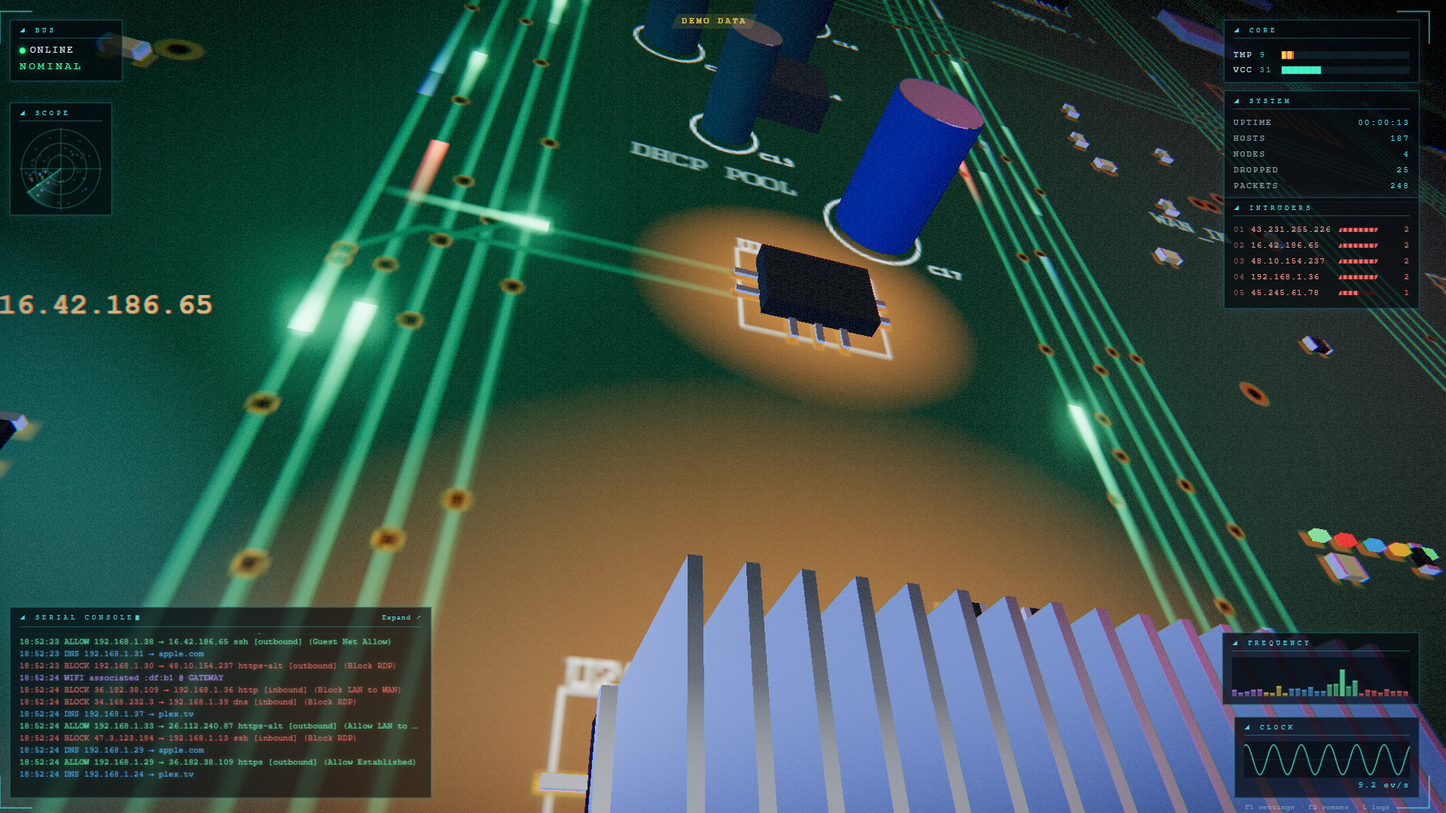
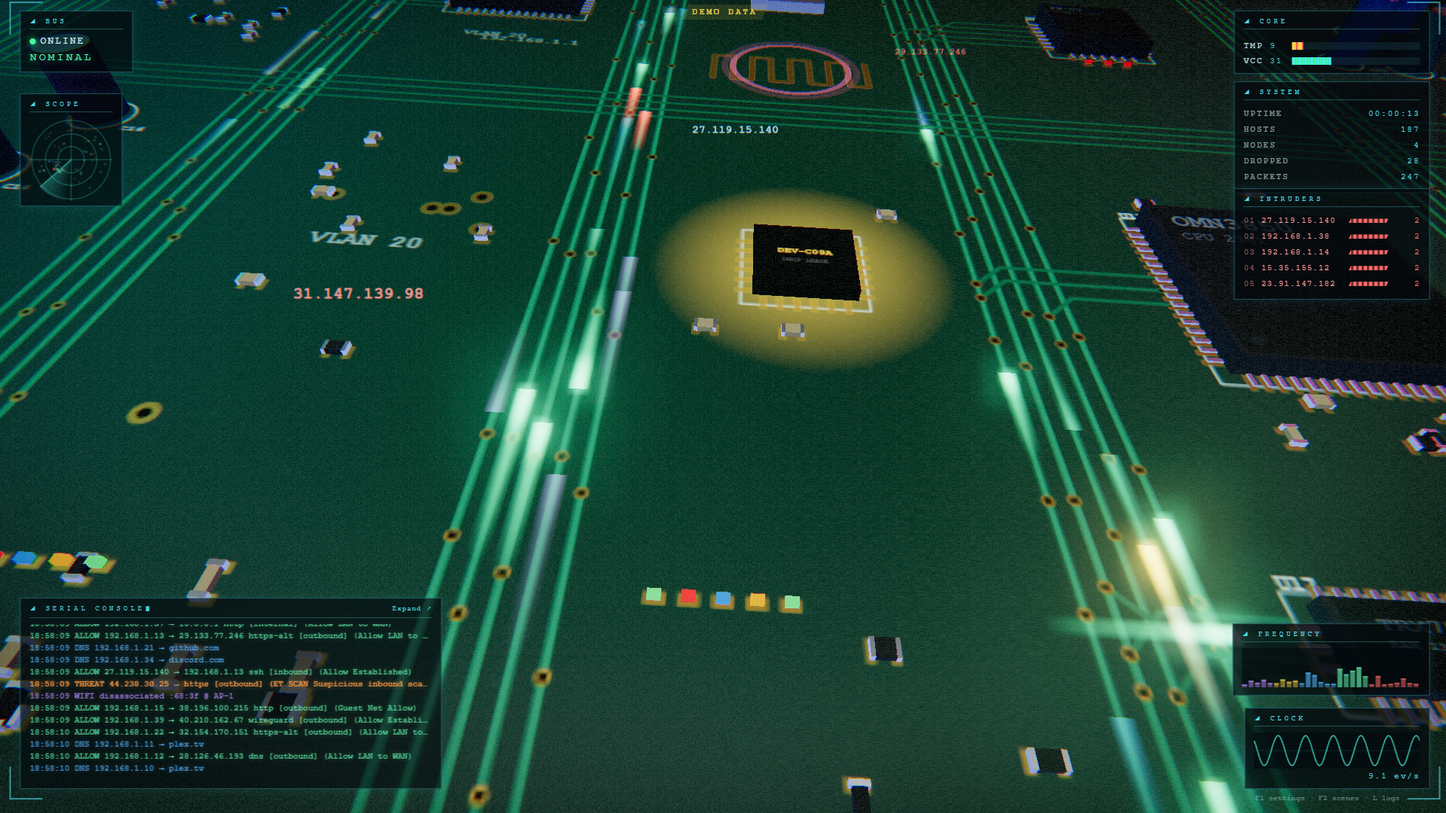
Mainframe: pull the camera back so you can see what's going on
Higher over the board (and a little higher inside a chip), looking further
ahead, with lighter fog; packets, worms, shards and floating addresses are
scaled up to read from the new height.

diff --git a/web/src/themes/mainframe/traffic.ts b/web/src/themes/mainframe/traffic.ts
@@ -138,12 +138,12 @@ export class Traffic {
       const rt = routes[Math.floor(Math.random() * routes.length)];
       if (rt) {
         const start = new Vector3(rt.pts[0].x, 0.12, outbound ? camZ + 30 : camZ - 260);
-        this.launch(makeRoute([start, ...rt.pts], rt.chip), color, 55 + Math.random() * 25, 6 + Math.random() * 4, undefined, 1.05);
+        this.launch(makeRoute([start, ...rt.pts], rt.chip), color, 60 + Math.random() * 30, 9 + Math.random() * 5, undefined, 1.6);
         return;
       }
     }
     const z0 = outbound ? camZ + 30 : camZ - 300, z1 = outbound ? camZ - 300 : camZ + 40;
-    this.launch(makeRoute([new Vector3(x, 0.12, z0), new Vector3(x, 0.12, z1)]), color, 45 + Math.random() * 40, 6 + Math.random() * 6, undefined, 1.1);
+    this.launch(makeRoute([new Vector3(x, 0.12, z0), new Vector3(x, 0.12, z1)]), color, 50 + Math.random() * 45, 9 + Math.random() * 8, undefined, 1.7);
   }
 
   /** The board's own chatter between events: dim clock and bus pulses, so it's never still. */
@@ -160,7 +160,7 @@ export class Traffic {
     const rt = chip.routes[Math.floor(Math.random() * chip.routes.length)];
     const start = new Vector3(rt.pts[0].x, 0.12, camZ + 20);
     const end = rt.pts[rt.pts.length - 1];
-    this.launch(makeRoute([start, ...rt.pts], chip), COL.block, 70 + Math.random() * 20, 6, () => {
+    this.launch(makeRoute([start, ...rt.pts], chip), COL.block, 75 + Math.random() * 20, 9, () => {
       this.burst(end, COL.block, 16);
       this.glow(chip, COL.block, 1, 1.4);
       this.onEvent('shatter', end.x);
@@ -196,7 +196,7 @@ export class Traffic {
           w.iced = true;
           const rev = makeRoute([...w.route.pts].reverse().map((p) => p.clone()), null);
           for (let i = 0; i < 3; i++) {
-            const p = this.launch(rev, COL.ice, 30 + i * 6, 3.5, undefined, 0.8);
+            const p = this.launch(rev, COL.ice, 30 + i * 6, 5, undefined, 1.3);
             if (p) { p.d = -i * 3; w.ice.push(p); }
           }
           this.onEvent('ice', w.route.pts[w.route.pts.length - 1].x);
@@ -213,7 +213,7 @@ export class Traffic {
       }
       const alive = w.dying < 0 ? SEG : Math.max(0, SEG - Math.floor(w.dying / 0.09));
       for (let s = 0; s < SEG; s++) {
-        const d = w.head - s * 1.25;
+        const d = w.head - s * 1.8;
         if (d < 0) break;
         this.pointAt(w.route, d, tmpV);
         if (s >= alive) {
@@ -223,7 +223,7 @@ export class Traffic {
         const sc = 1 - s / (SEG * 1.4);
         tmpV.x += this.jitter[s % this.jitter.length] * (w.dying >= 0 ? 3 : 1);
         tmpV.y = 0.45 + Math.sin(w.age * 9 - s * 0.8) * 0.18;
-        tmpM.compose(tmpV, tmpQ.identity(), tmpS.set(0.95 * sc, 0.7 * sc, 1.05 * sc));
+        tmpM.compose(tmpV, tmpQ.identity(), tmpS.set(1.5 * sc, 1.0 * sc, 1.6 * sc));
         this.wormMesh.setMatrixAt(n++, tmpM);
         if (n >= 120) break;
       }
@@ -256,7 +256,7 @@ export class Traffic {
       s.pos.addScaledVector(s.vel, dt);
       if (s.pos.y < 0.15) { s.pos.y = 0.15; s.vel.y *= -0.3; s.vel.x *= 0.7; s.vel.z *= 0.7; }
       const k = 1 - s.age / s.life;
-      tmpM.compose(s.pos, tmpQ.identity(), tmpS.set(0.9 * k + 0.2, 1, 0.9 * k + 0.2));
+      tmpM.compose(s.pos, tmpQ.identity(), tmpS.set(1.5 * k + 0.3, 1, 1.5 * k + 0.3));
       this.shardMesh.setMatrixAt(n, tmpM);
       this.shardMesh.setColorAt(n, this.col.copy(s.color).multiplyScalar(k * 2));
       n++;
@@ -473,8 +473,8 @@ export class Traffic {
     g.textBaseline = 'middle';
     g.fillText(text.slice(0, 22), 6, 34);
     f.tex.needsUpdate = true;
-    f.sprite.scale.set(10, 1.25, 1);
-    f.sprite.position.set(this.camX + (Math.random() - 0.5) * 70, 2.5 + Math.random() * 5, camZ - 45 - Math.random() * 80);
+    f.sprite.scale.set(15, 1.9, 1);
+    f.sprite.position.set(this.camX + (Math.random() - 0.5) * 70, 4 + Math.random() * 8, camZ - 55 - Math.random() * 90);
     f.age = 0; f.life = 5 + Math.random() * 3; f.vy = 0.6 + Math.random() * 0.8; f.busy = true; f.sprite.visible = true;
   }
 

diff --git a/web/src/themes/mainframe/flight.ts b/web/src/themes/mainframe/flight.ts
@@ -12,6 +12,8 @@ export class Flight {
   alt = 12;
   vx = 0;
   speed = 26;
+  /** Height above the low point: high over the board, lower inside a chip. */
+  lift = 28;
   private targetX = 0;
   private nextTurn = 2;
   private roll = 0;
@@ -35,14 +37,14 @@ export class Flight {
     // clearance over the parts coming up
     let h = 0;
     for (let dz = 6; dz <= 46; dz += 4) for (let dx = -10; dx <= 10; dx += 5) h = Math.max(h, board.heightAt(this.x + dx, this.z - dz));
-    const base = (o.low ?? 9) + 11 + Math.sin(this.t * 0.11) * 3.5 + Math.sin(this.t * 0.037 + 1) * 2;
+    const base = (o.low ?? 9) + this.lift + Math.sin(this.t * 0.11) * 3.5 + Math.sin(this.t * 0.037 + 1) * 2;
     const altTarget = Math.max(base, h + 7);
     this.alt += (altTarget - this.alt) * Math.min(1, dt * (altTarget > this.alt ? 2.6 : 0.7));
     this.roll += (-this.vx * 0.014 - this.roll) * Math.min(1, dt * 3);
     camera.position.set(this.x + (o.wanderX ?? 0) * 0.01, this.alt + (o.wanderY ?? 0) * 0.005, this.z);
     // steep enough to read as flying over the board, with the traces rushing up from below
     // looking well down at the board: it fills the frame, and the horizon stays out of sight
-    this.look.set(this.x + this.vx * 0.35, 0, this.z - (this.alt * 0.62 + 8));
+    this.look.set(this.x + this.vx * 0.35, 0, this.z - (this.alt * 0.7 + 10));
     camera.up.set(Math.sin(this.roll), Math.cos(this.roll), 0);
     camera.lookAt(this.look);
     camera.fov = 58 + Math.min(12, (this.speed - 26) * 0.22);

diff --git a/web/src/themes/mainframe/index.ts b/web/src/themes/mainframe/index.ts
@@ -237,7 +237,7 @@ async function create(host: ThemeHost<typeof MAINFRAME_DEFAULTS>, init: Renderer
     world.key.intensity = 2.2 * (0.35 + 0.65 * dim);
     world.key.position.set(flight.x - 40, 90, flight.z + 30);
     world.key.target.position.set(flight.x, 0, flight.z - 40);
-    (world.scene.fog as { density: number }).density = 0.0052 + heat * 0.002;
+    (world.scene.fog as { density: number }).density = 0.0034 + heat * 0.0015;
     const lens = world.lens.uniforms;
     lens.uTime.value += dtReal;
     lens.uHaze.value = settings.mHaze ? heat : 0;

diff --git a/web/src/themes/mainframe/world.ts b/web/src/themes/mainframe/world.ts
@@ -116,7 +116,7 @@ export function createWorld(mount: HTMLElement, antialias: boolean, powerPref: W
 
   const scene = new Scene();
   scene.background = new Color(0x020406);
-  scene.fog = new FogExp2(0x020406, 0.0052);
+  scene.fog = new FogExp2(0x020406, 0.0034);
   const key = new DirectionalLight(0xcfe6ff, 2.2);
   key.position.set(-40, 90, 30);
   scene.add(key, key.target, new HemisphereLight(0x5a88b0, 0x0a0f0c, 0.55));

diff --git a/web/src/themes/mainframe/dive.ts b/web/src/themes/mainframe/dive.ts
@@ -87,7 +87,7 @@ export class Dive {
   private chip: Chip | null = null;
   private innerBoard: Board | null = null;
   private innerTraffic: Traffic | null = null;
-  private innerFlight = new Flight();
+  private innerFlight = Object.assign(new Flight(), { lift: 17 });
   private from = new Vector3();
   private lookOffset = new Vector3();
   private fromUp = new Vector3(0, 1, 0);
